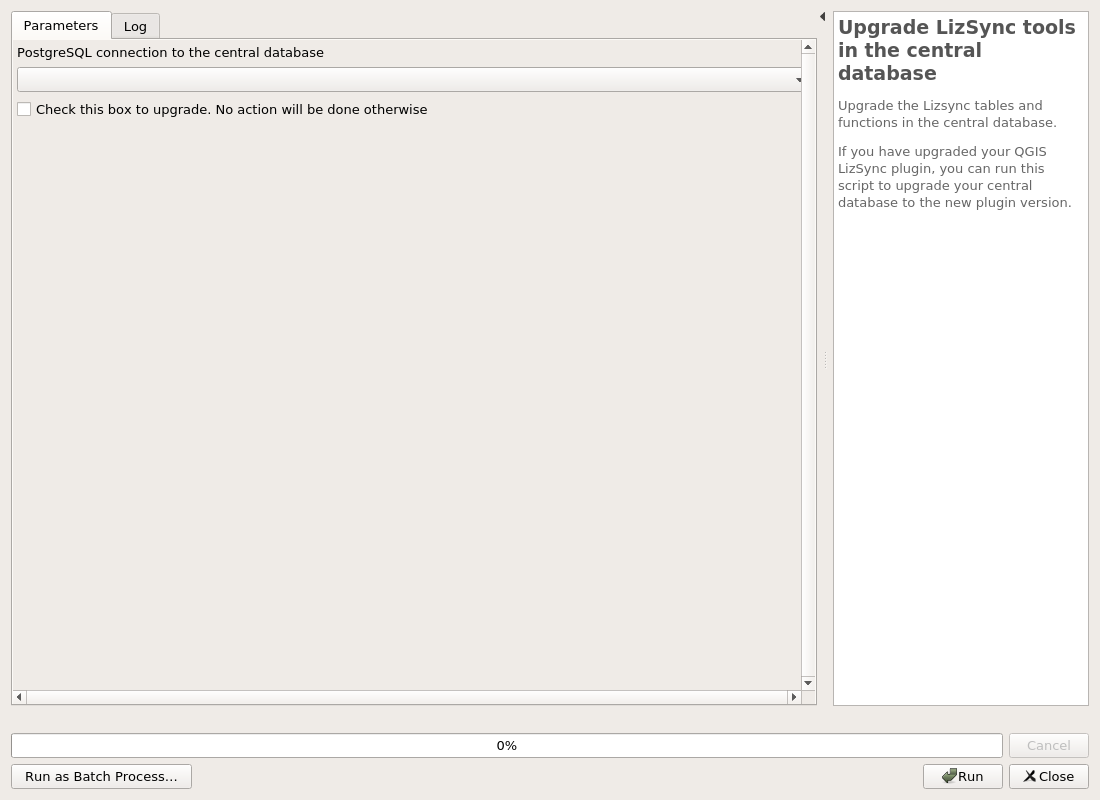
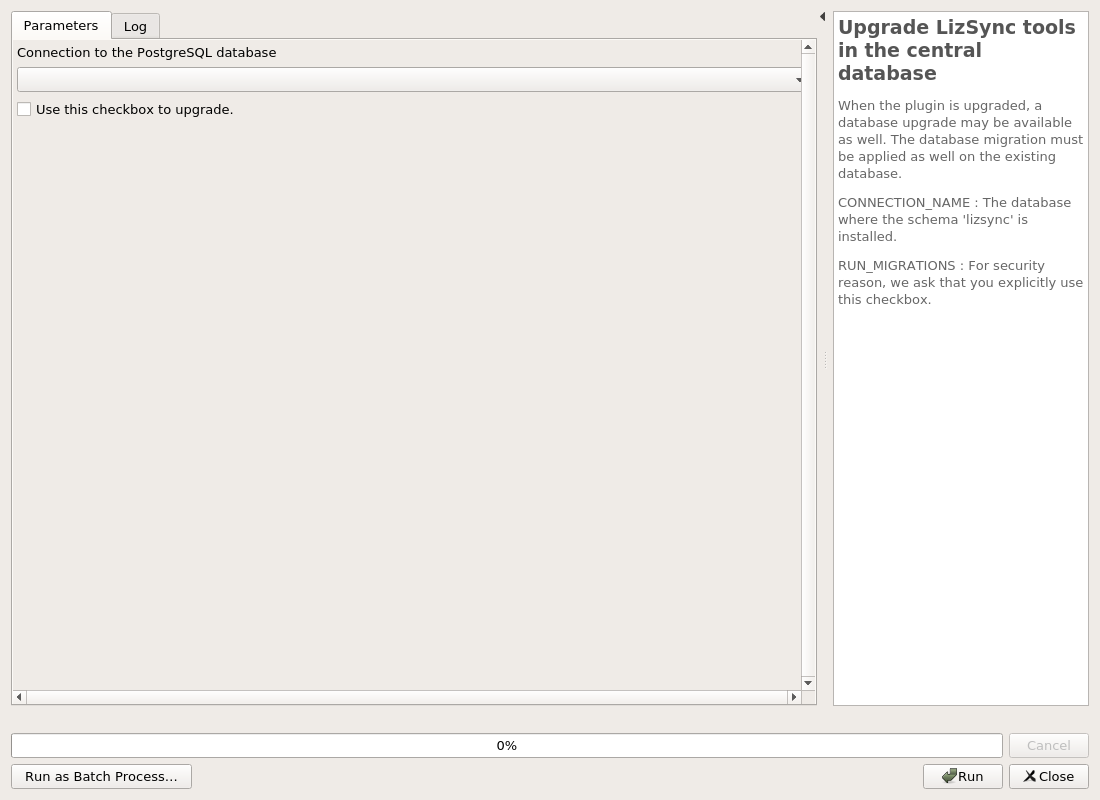
Docs - Update processing doc

Changed region(s): [[0.7418, 0.125, 0.9891, 0.375], [0.0309, 0.125, 0.3709, 0.1562], [0.0309, 0.0625, 0.2782, 0.0938]]

diff --git a/docs/processing/README.md b/docs/processing/README.md
@@ -82,12 +82,15 @@ OUTPUT_STRING|Output message|String||
 
 ### Install Lizsync tools on the central database
 
- Install the LizSync schema with tables and function on the central database.
+When you are running the plugin for the first time on a new database, you need to install the database schema.
 
- This script will add
- * A lizsync schema with tables and functions
+It will erase and/or create the schema 'lizsync'.
 
-Beware ! If the schema lizsync already exists in the database, not installation will be made. You will need to manually correct the situation (drop or modifiy the schemas, tables and functions) with SQL commands.
+CONNECTION_NAME : The PostgreSQL connection to the central database. You need to have the right to create a new schema in this database, as a schema lizsync will be created and filled with the needed tables and functions
+
+OVERRIDE : ** Be careful ** This will remove data in the schema !
+
+
 
 ![algo_id](./lizsync-create_database_structure.png)
 
@@ -96,15 +99,14 @@ Beware ! If the schema lizsync already exists in the database, not installation 
 | ID | Description | Type | Info | Required | Advanced | Option |
 |:-:|:-:|:-:|:-:|:-:|:-:|:-:|
 CONNECTION_NAME|PostgreSQL connection to the central database|String|The PostgreSQL connection to the central database. You need to have the right to create a new schema in this database, as a schema lizsync will be created and filled with the needed tables and functions|✓|||
-OVERRIDE_LIZSYNC|Drop lizsync schema and all data ?|Boolean||✓|||
+OVERRIDE|Erase the schema lizsync ?|Boolean|** Be careful ** This will remove data in the schema !|✓|||
 
 
 #### Outputs
 
 | ID | Description | Type | Info |
 |:-:|:-:|:-:|:-:|
-OUTPUT_STATUS|Output status|Number||
-OUTPUT_STRING|Output message|String||
+DATABASE_VERSION|Database version|String||
 
 
 ***
@@ -147,9 +149,13 @@ OUTPUT_STRING|Output message|String||
 
 ### Upgrade LizSync tools in the central database
 
- Upgrade the Lizsync tables and functions in the central database.
+When the plugin is upgraded, a database upgrade may be available as well. The database migration must be applied as well on the existing database.
 
- If you have upgraded your QGIS LizSync plugin, you can run this script to upgrade your central database to the new plugin version.
+CONNECTION_NAME : The database where the schema 'lizsync' is installed.
+
+RUN_MIGRATIONS : For security reason, we ask that you explicitly use this checkbox.
+
+
 
 ![algo_id](./lizsync-upgrade_database_structure.png)
 
@@ -157,16 +163,15 @@ OUTPUT_STRING|Output message|String||
 
 | ID | Description | Type | Info | Required | Advanced | Option |
 |:-:|:-:|:-:|:-:|:-:|:-:|:-:|
-CONNECTION_NAME|PostgreSQL connection to the central database|String|The PostgreSQL connection to the central database. You need to have the right to create a new schema in this database, as a schema lizsync will be created and filled with the needed tables and functions|✓|||
-RUNIT|Check this box to upgrade. No action will be done otherwise|Boolean||✓|||
+CONNECTION_NAME|Connection to the PostgreSQL database|String|The database where the schema 'lizsync' is installed.|✓|||
+RUN_MIGRATIONS|Use this checkbox to upgrade.|Boolean|For security reason, we ask that you explicitly use this checkbox.|✓|||
 
 
 #### Outputs
 
 | ID | Description | Type | Info |
 |:-:|:-:|:-:|:-:|
-OUTPUT_STATUS|Output status|Number||
-OUTPUT_STRING|Output message|String||
+DATABASE_VERSION|Database version|String||
 
 
 ***
